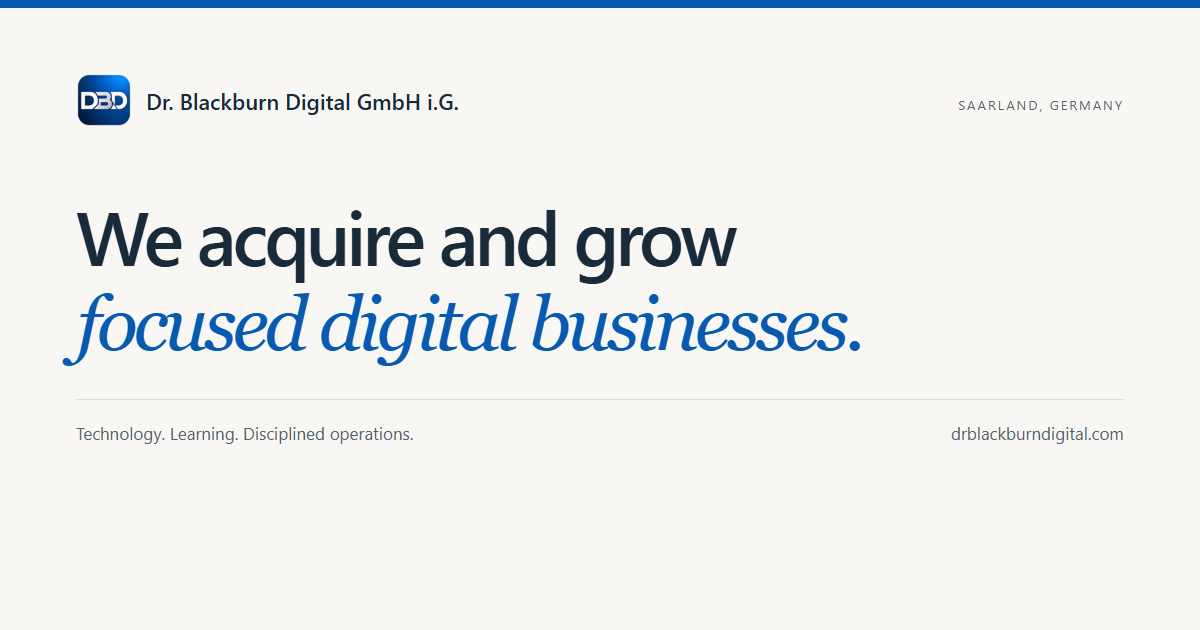
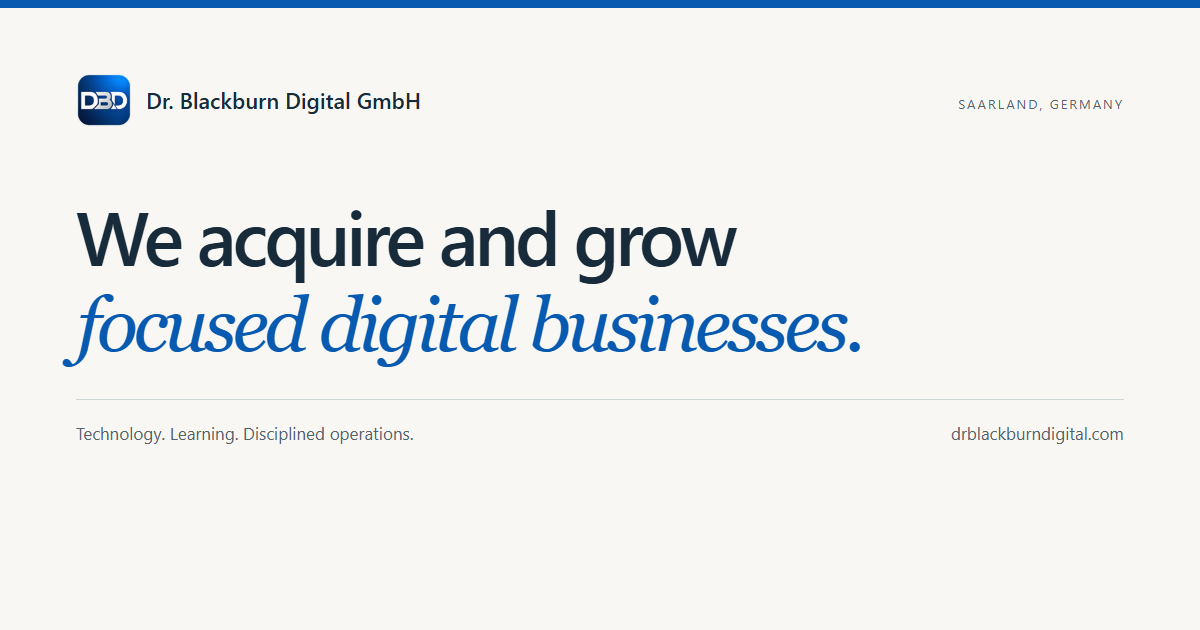
Update DBD registered company status and register details

diff --git a/index.html b/index.html
@@ -1,13 +1,13 @@
 <!doctype html>
-<html lang="en"><head><meta charset="utf-8"><meta name="viewport" content="width=device-width, initial-scale=1"><meta name="color-scheme" content="light"><title>Focused digital businesses | Dr. Blackburn Digital GmbH i.G.</title>
-<meta name="description" content="Dr. Blackburn Digital GmbH i.G. acquires and grows focused digital businesses, combining technology, AI, learning expertise and disciplined operations."><link rel="canonical" href="https://www.drblackburndigital.com/"><link rel="alternate" hreflang="en" href="https://www.drblackburndigital.com/"><link rel="alternate" hreflang="de" href="https://www.drblackburndigital.com/de/"><link rel="alternate" hreflang="x-default" href="https://www.drblackburndigital.com/">
+<html lang="en"><head><meta charset="utf-8"><meta name="viewport" content="width=device-width, initial-scale=1"><meta name="color-scheme" content="light"><title>Focused digital businesses | Dr. Blackburn Digital GmbH</title>
+<meta name="description" content="Dr. Blackburn Digital GmbH acquires and grows focused digital businesses, combining technology, AI, learning expertise and disciplined operations."><link rel="canonical" href="https://www.drblackburndigital.com/"><link rel="alternate" hreflang="en" href="https://www.drblackburndigital.com/"><link rel="alternate" hreflang="de" href="https://www.drblackburndigital.com/de/"><link rel="alternate" hreflang="x-default" href="https://www.drblackburndigital.com/">
 <meta name="robots" content="index, follow">
-<meta property="og:type" content="website"><meta property="og:title" content="Focused digital businesses | Dr. Blackburn Digital GmbH i.G."><meta property="og:description" content="Dr. Blackburn Digital GmbH i.G. acquires and grows focused digital businesses, combining technology, AI, learning expertise and disciplined operations."><meta property="og:url" content="https://www.drblackburndigital.com/"><meta property="og:site_name" content="Dr. Blackburn Digital GmbH i.G."><meta property="og:locale" content="en_GB"><meta property="og:image" content="https://www.drblackburndigital.com/assets/social-preview.png"><meta property="og:image:width" content="1200"><meta property="og:image:height" content="630"><meta property="og:image:alt" content="Dr. Blackburn Digital GmbH i.G. — focused digital businesses"><meta name="twitter:card" content="summary_large_image"><meta name="twitter:title" content="Focused digital businesses | Dr. Blackburn Digital GmbH i.G."><meta name="twitter:description" content="Dr. Blackburn Digital GmbH i.G. acquires and grows focused digital businesses, combining technology, AI, learning expertise and disciplined operations."><meta name="twitter:image" content="https://www.drblackburndigital.com/assets/social-preview.png">
+<meta property="og:type" content="website"><meta property="og:title" content="Focused digital businesses | Dr. Blackburn Digital GmbH"><meta property="og:description" content="Dr. Blackburn Digital GmbH acquires and grows focused digital businesses, combining technology, AI, learning expertise and disciplined operations."><meta property="og:url" content="https://www.drblackburndigital.com/"><meta property="og:site_name" content="Dr. Blackburn Digital GmbH"><meta property="og:locale" content="en_GB"><meta property="og:image" content="https://www.drblackburndigital.com/assets/social-preview.png"><meta property="og:image:width" content="1200"><meta property="og:image:height" content="630"><meta property="og:image:alt" content="Dr. Blackburn Digital GmbH — focused digital businesses"><meta name="twitter:card" content="summary_large_image"><meta name="twitter:title" content="Focused digital businesses | Dr. Blackburn Digital GmbH"><meta name="twitter:description" content="Dr. Blackburn Digital GmbH acquires and grows focused digital businesses, combining technology, AI, learning expertise and disciplined operations."><meta name="twitter:image" content="https://www.drblackburndigital.com/assets/social-preview.png">
 <link rel="icon" href="/favicon.ico" sizes="16x16 32x32 48x48"><link rel="icon" type="image/png" href="/assets/favicon-96.png" sizes="96x96"><link rel="apple-touch-icon" href="/apple-touch-icon.png" sizes="180x180"><meta name="theme-color" content="#172b3a">
-<link rel="stylesheet" href="/assets/site.css"><script type="application/ld+json">{"@context":"https://schema.org","@graph":[{"@type":"Organization","@id":"https://www.drblackburndigital.com/#organization","name":"Dr. Blackburn Digital GmbH i.G.","legalName":"Dr. Blackburn Digital GmbH i.G.","url":"https://www.drblackburndigital.com/","email":"info@drblackburndigital.com","alternateName":"DBD","founder":{"@id":"https://www.drblackburndigital.com/greg-blackburn/#person"},"description":"A German company in formation, founded to acquire, operate and grow focused digital businesses.","logo":{"@type":"ImageObject","@id":"https://www.drblackburndigital.com/#logo","url":"https://www.drblackburndigital.com/assets/logo.png","width":1056,"height":372},"address":{"@type":"PostalAddress","addressLocality":"Püttlingen","addressRegion":"Saarland","addressCountry":"DE"},"contactPoint":{"@type":"ContactPoint","contactType":"Business enquiries","email":"info@drblackburndigital.com","url":"https://www.drblackburndigital.com/contact/"}},{"@type":"Person","@id":"https://www.drblackburndigital.com/greg-blackburn/#person","name":"Dr. Greg Blackburn","alternateName":"Greg Blackburn","url":"https://www.drblackburndigital.com/greg-blackburn/","jobTitle":"Founder & CEO","worksFor":{"@id":"https://www.drblackburndigital.com/#organization"},"image":"https://www.drblackburndigital.com/assets/greg-blackburn.jpg"},{"@type":"WebSite","@id":"https://www.drblackburndigital.com/#website","url":"https://www.drblackburndigital.com/","name":"Dr. Blackburn Digital GmbH i.G.","publisher":{"@id":"https://www.drblackburndigital.com/#organization"},"inLanguage":["en","de"]},{"@type":"WebPage","@id":"https://www.drblackburndigital.com/#webpage","url":"https://www.drblackburndigital.com/","name":"Focused digital businesses | Dr. Blackburn Digital GmbH i.G.","description":"Dr. Blackburn Digital GmbH i.G. acquires and grows focused digital businesses, combining technology, AI, learning expertise and disciplined operations.","inLanguage":"en","isPartOf":{"@id":"https://www.drblackburndigital.com/#website"},"about":{"@id":"https://www.drblackburndigital.com/#organization"}}]}</script></head><body>
+<link rel="stylesheet" href="/assets/site.css"><script type="application/ld+json">{"@context":"https://schema.org","@graph":[{"@type":"Organization","@id":"https://www.drblackburndigital.com/#organization","name":"Dr. Blackburn Digital GmbH","legalName":"Dr. Blackburn Digital GmbH","url":"https://www.drblackburndigital.com/","email":"info@drblackburndigital.com","alternateName":"DBD","founder":{"@id":"https://www.drblackburndigital.com/greg-blackburn/#person"},"description":"A registered German company, founded to acquire, operate and grow focused digital businesses.","logo":{"@type":"ImageObject","@id":"https://www.drblackburndigital.com/#logo","url":"https://www.drblackburndigital.com/assets/logo.png","width":1056,"height":372},"address":{"@type":"PostalAddress","addressLocality":"Püttlingen","addressRegion":"Saarland","addressCountry":"DE"},"contactPoint":{"@type":"ContactPoint","contactType":"Business enquiries","email":"info@drblackburndigital.com","url":"https://www.drblackburndigital.com/contact/"}},{"@type":"Person","@id":"https://www.drblackburndigital.com/greg-blackburn/#person","name":"Dr. Greg Blackburn","alternateName":"Greg Blackburn","url":"https://www.drblackburndigital.com/greg-blackburn/","jobTitle":"Founder & CEO","worksFor":{"@id":"https://www.drblackburndigital.com/#organization"},"image":"https://www.drblackburndigital.com/assets/greg-blackburn.jpg"},{"@type":"WebSite","@id":"https://www.drblackburndigital.com/#website","url":"https://www.drblackburndigital.com/","name":"Dr. Blackburn Digital GmbH","publisher":{"@id":"https://www.drblackburndigital.com/#organization"},"inLanguage":["en","de"]},{"@type":"WebPage","@id":"https://www.drblackburndigital.com/#webpage","url":"https://www.drblackburndigital.com/","name":"Focused digital businesses | Dr. Blackburn Digital GmbH","description":"Dr. Blackburn Digital GmbH acquires and grows focused digital businesses, combining technology, AI, learning expertise and disciplined operations.","inLanguage":"en","isPartOf":{"@id":"https://www.drblackburndigital.com/#website"},"about":{"@id":"https://www.drblackburndigital.com/#organization"}}]}</script></head><body>
 <a class="skip-link" href="#main">Skip to content</a>
-<header class="site-header"><div class="wrap header-inner"><a class="brand" href="/" aria-label="Dr. Blackburn Digital home"><img src="/assets/favicon-96.png" width="48" height="48" alt=""><span>Dr. Blackburn Digital<small>GmbH i.G. · Germany</small></span></a><nav class="desktop-nav" aria-label="Main"><a href="/portfolio/">Portfolio</a><a href="/partnerships/">Partnerships</a><a href="/greg-blackburn/">Greg Blackburn</a><a href="/insights/">Insights</a><a href="/contact/" class="nav-contact">Contact</a></nav><nav class="language-switch" aria-label="Language"><a lang="en" hreflang="en" href="/" aria-current="true">EN</a><span aria-hidden="true">/</span><a lang="de" hreflang="de" href="/de/">DE</a></nav><details class="mobile-nav"><summary>Menu</summary><nav aria-label="Mobile"><a href="/portfolio/">Portfolio</a><a href="/partnerships/">Partnerships</a><a href="/greg-blackburn/">Greg Blackburn</a><a href="/insights/">Insights</a><a href="/contact/" class="nav-contact">Contact</a></nav></details></div></header>
-<main id="main" tabindex="-1"><section class="hero wrap"><div class="hero-main"><p class="eyebrow"><span class="status-dot"></span> Dr. Blackburn Digital GmbH i.G.</p><h1>We acquire and grow <em>focused digital businesses.</em></h1><p class="lead">Dr. Blackburn Digital GmbH i.G. (DBD) is a German company in formation, founded to acquire, operate and grow focused digital businesses. We bring technology, AI and learning expertise to long-term product improvement.</p><div class="actions"><a class="button" href="/contact/?type=acquisition">Discuss an acquisition <span aria-hidden="true">→</span></a><a class="text-link" href="/contact/?type=partnership">Discuss a partnership <span aria-hidden="true">→</span></a></div></div><aside class="hero-aside" aria-label="Our perspective"><div class="brand-panel"><img src="/assets/logo.png" width="1056" height="372" alt="" aria-hidden="true"><p>An operating company.<br>A long-term perspective.</p></div><div class="location-line"><span>Saarland, Germany</span><span>International outlook</span></div></aside></section>
+<header class="site-header"><div class="wrap header-inner"><a class="brand" href="/" aria-label="Dr. Blackburn Digital home"><img src="/assets/favicon-96.png" width="48" height="48" alt=""><span>Dr. Blackburn Digital<small>GmbH · Germany</small></span></a><nav class="desktop-nav" aria-label="Main"><a href="/portfolio/">Portfolio</a><a href="/partnerships/">Partnerships</a><a href="/greg-blackburn/">Greg Blackburn</a><a href="/insights/">Insights</a><a href="/contact/" class="nav-contact">Contact</a></nav><nav class="language-switch" aria-label="Language"><a lang="en" hreflang="en" href="/" aria-current="true">EN</a><span aria-hidden="true">/</span><a lang="de" hreflang="de" href="/de/">DE</a></nav><details class="mobile-nav"><summary>Menu</summary><nav aria-label="Mobile"><a href="/portfolio/">Portfolio</a><a href="/partnerships/">Partnerships</a><a href="/greg-blackburn/">Greg Blackburn</a><a href="/insights/">Insights</a><a href="/contact/" class="nav-contact">Contact</a></nav></details></div></header>
+<main id="main" tabindex="-1"><section class="hero wrap"><div class="hero-main"><p class="eyebrow"><span class="status-dot"></span> Dr. Blackburn Digital GmbH</p><h1>We acquire and grow <em>focused digital businesses.</em></h1><p class="lead">Dr. Blackburn Digital GmbH (DBD) is a registered German company, founded to acquire, operate and grow focused digital businesses. We bring technology, AI and learning expertise to long-term product improvement.</p><div class="actions"><a class="button" href="/contact/?type=acquisition">Discuss an acquisition <span aria-hidden="true">→</span></a><a class="text-link" href="/contact/?type=partnership">Discuss a partnership <span aria-hidden="true">→</span></a></div></div><aside class="hero-aside" aria-label="Our perspective"><div class="brand-panel"><img src="/assets/logo.png" width="1056" height="372" alt="" aria-hidden="true"><p>An operating company.<br>A long-term perspective.</p></div><div class="location-line"><span>Saarland, Germany</span><span>International outlook</span></div></aside></section>
     <div class="intro-strip"><div class="wrap"><span>Focused markets</span><span>Useful products</span><span>Evidence-led decisions</span><span>Disciplined operations</span></div></div>
     <section class="section wrap" id="portfolio"><div class="section-label"><span>01</span><p>Our portfolio</p></div><div class="portfolio-intro"><h2>Focused businesses.<br>Considered ownership.</h2><div><p>DBD is building a portfolio of focused digital businesses. We look for useful products with a clear audience and scope for sustained improvement.</p><p>Portfolio details will be shared as acquisitions are completed.</p><a class="text-link" href="/portfolio/">Our portfolio approach <span aria-hidden="true">→</span></a></div></div></section>
     <section class="section wrap acquisition-summary"><p class="eyebrow">For founders &amp; owners</p><div class="split-content"><h2>A useful product.<br>A clear audience.</h2><div><p>We welcome introductions to focused digital businesses where understanding customers and improving the product can create lasting value.</p><a class="text-link" href="/portfolio/#acquisition-fit">What makes a business worth discussing <span aria-hidden="true">→</span></a></div></div></section><section class="section soft-section"><div class="wrap"><div class="section-label"><span>02</span><p>How we operate</p></div><div class="section-heading"><h2>Better products are built<br>through everyday decisions.</h2><p>Our work starts with understanding a business and continues through the practical work of improving it.</p></div><div class="principles">
@@ -16,6 +16,6 @@
   <article><span class="index">03</span><h3>Operate for the long term.</h3><p>Bring discipline to the everyday work of running a digital business. Make useful, sustained product improvements.</p></article>
 </div></div></section>
     <section class="section wrap split-section"><div class="section-label"><span>03</span><p>Partnerships</p></div><div class="split-content"><h2>Good partnerships<br>start with shared purpose.</h2><div><p>We welcome conversations with organisations whose expertise, audiences or services connect with our portfolio businesses.</p><p>Our role is to provide a clear corporate counterpart and an informed route into the right product conversation.</p><a class="text-link" href="/partnerships/">Working with DBD <span aria-hidden="true">→</span></a></div></div></section>
-    <section class="section founder-section"><div class="wrap founder-grid"><div class="founder-summary"><p class="eyebrow">Meet the founder</p><h2>Dr. Greg Blackburn</h2><p class="role">Founder &amp; CEO<br>Dr. Blackburn Digital GmbH i.G.</p><p>More than 20 years across professional education, digital learning and technology. Now focused on acquiring, operating and improving specialist digital businesses.</p><a class="text-link" href="/greg-blackburn/">Greg’s background & approach <span aria-hidden="true">→</span></a></div><div class="founder-evidence"><img class="founder-photo" src="/assets/greg-blackburn.jpg" width="720" height="771" alt="Dr. Greg Blackburn" loading="lazy"><p class="large-stat">20+<span>years in learning &amp; technology</span></p><div class="credential-line"><span>PhD</span><p>Professional Education<br><small>City, University of London</small></p></div><div class="credential-line"><span>MBA</span><p>Business administration<br><small>University of Queensland</small></p></div><p class="small-note">Professional experience across Europe and Australia.</p></div></div></section>
+    <section class="section founder-section"><div class="wrap founder-grid"><div class="founder-summary"><p class="eyebrow">Meet the founder</p><h2>Dr. Greg Blackburn</h2><p class="role">Founder &amp; CEO<br>Dr. Blackburn Digital GmbH</p><p>More than 20 years across professional education, digital learning and technology. Now focused on acquiring, operating and improving specialist digital businesses.</p><a class="text-link" href="/greg-blackburn/">Greg’s background & approach <span aria-hidden="true">→</span></a></div><div class="founder-evidence"><img class="founder-photo" src="/assets/greg-blackburn.jpg" width="720" height="771" alt="Dr. Greg Blackburn" loading="lazy"><p class="large-stat">20+<span>years in learning &amp; technology</span></p><div class="credential-line"><span>PhD</span><p>Professional Education<br><small>City, University of London</small></p></div><div class="credential-line"><span>MBA</span><p>Business administration<br><small>University of Queensland</small></p></div><p class="small-note">Professional experience across Europe and Australia.</p></div></div></section>
     <section class="section wrap"><p class="eyebrow">Ideas behind the work</p><h2>Learning, technology<br>and useful decisions.</h2><div class="editorial-grid"><article><p class="eyebrow">Learning &amp; product decisions</p><h3><a class="text-link" href="/insights/reviewing-a-learning-product/">How to review a learning product <span aria-hidden="true">→</span></a></h3><p>Follow one task through practice, feedback and another attempt. Decide what evidence would justify an improvement.</p></article><article><p class="eyebrow">AI &amp; operations</p><h3><a class="text-link" href="/insights/knowledge-before-ai/">Review the knowledge before adding AI <span aria-hidden="true">→</span></a></h3><p>Define the job, check the sources and test the situations in which an answer needs human review.</p></article></div><a class="text-link" href="/insights/">Explore our perspectives <span aria-hidden="true">→</span></a></section><section class="contact-band"><div class="wrap contact-inner"><div><p class="eyebrow">Contact DBD</p><h2>Let’s start a conversation.</h2><p>Partnerships, acquisition opportunities and professional enquiries.</p></div><a class="button button-light" href="/contact/">Contact DBD <span aria-hidden="true">→</span></a></div></section></main>
-<footer class="site-footer wrap"><div class="footer-top"><div><p class="footer-brand">Dr. Blackburn Digital GmbH i.G.</p><p class="footer-tagline">Acquiring, operating and growing<br>focused digital businesses.</p><a class="text-link" href="mailto:info@drblackburndigital.com">info@drblackburndigital.com</a></div><nav class="footer-links" aria-label="Footer"><a href="/company/">Company</a><a href="/portfolio/">Portfolio</a><a href="/partnerships/">Partnerships</a><a href="/greg-blackburn/">Greg Blackburn</a><a href="/insights/">Insights</a><a href="/contact/">Contact</a><a href="/impressum/">Impressum</a><a href="/privacy/">Privacy</a></nav></div><div class="footer-bottom"><span>© 2026 Dr. Blackburn Digital GmbH i.G.</span><span>Püttlingen, Saarland · Germany</span></div></footer></body></html>
+<footer class="site-footer wrap"><div class="footer-top"><div><p class="footer-brand">Dr. Blackburn Digital GmbH</p><p class="footer-tagline">Acquiring, operating and growing<br>focused digital businesses.</p><a class="text-link" href="mailto:info@drblackburndigital.com">info@drblackburndigital.com</a></div><nav class="footer-links" aria-label="Footer"><a href="/company/">Company</a><a href="/portfolio/">Portfolio</a><a href="/partnerships/">Partnerships</a><a href="/greg-blackburn/">Greg Blackburn</a><a href="/insights/">Insights</a><a href="/contact/">Contact</a><a href="/impressum/">Impressum</a><a href="/privacy/">Privacy</a></nav></div><div class="footer-bottom"><span>© 2026 Dr. Blackburn Digital GmbH</span><span>Püttlingen, Saarland · Germany</span></div></footer></body></html>

diff --git a/src/social-card.html b/src/social-card.html
@@ -1,3 +1,3 @@
 <!doctype html><html lang="en"><head><meta charset="utf-8"><meta name="robots" content="noindex"><title>DBD social preview artwork</title><style>
 *{box-sizing:border-box}body{margin:0;width:1200px;height:630px;overflow:hidden;background:#f8f7f3;color:#172b3a;font-family:'Segoe UI',Arial,sans-serif}.card{padding:64px 76px;position:relative;height:630px;border-top:8px solid #075aaf}.brand{display:flex;align-items:center;gap:14px;font-size:22px;font-weight:600}.brand img{width:56px;height:56px}h1{font-size:76px;font-weight:500;line-height:1.12;letter-spacing:-4px;margin:64px 0 32px;max-width:980px}em{font-family:Georgia,serif;color:#075aaf;font-weight:400}.foot{border-top:1px solid #cdd7d6;padding-top:22px;display:flex;justify-content:space-between;font-size:17px;color:#53636c}.label{position:absolute;right:76px;top:87px;font-size:13px;text-transform:uppercase;letter-spacing:2px;color:#53636c}
-</style></head><body><div class="card"><div class="brand"><img src="/assets/favicon-96.png" alt="">Dr. Blackburn Digital GmbH i.G.</div><span class="label">Saarland, Germany</span><h1>We acquire and grow<br><em>focused digital businesses.</em></h1><div class="foot"><span>Technology. Learning. Disciplined operations.</span><span>drblackburndigital.com</span></div></div></body></html>
+</style></head><body><div class="card"><div class="brand"><img src="/assets/favicon-96.png" alt="">Dr. Blackburn Digital GmbH</div><span class="label">Saarland, Germany</span><h1>We acquire and grow<br><em>focused digital businesses.</em></h1><div class="foot"><span>Technology. Learning. Disciplined operations.</span><span>drblackburndigital.com</span></div></div></body></html>

diff --git a/README.md b/README.md
@@ -1,6 +1,6 @@
 # Dr. Blackburn Digital website
 
-Production source for https://www.drblackburndigital.com/ — Dr. Blackburn Digital GmbH i.G.
+Production source for https://www.drblackburndigital.com/ — Dr. Blackburn Digital GmbH
 
 ## Development
 
@@ -29,7 +29,7 @@ The root `index.html` is generated by the production build. Edit the sources and
 
 GitHub `main` is the production source branch. A push can trigger Vercel production deployment; review and test changes before pushing. Credentials and deployment settings remain in Vercel and are not changed by the build.
 
-Private review material and internal operator records are excluded from this public repository. The company remains in formation; update legal status and registry details only after confirmation.
+Private review material and internal operator records are excluded from this public repository. The company is registered at Amtsgericht Saarbrücken under HRB 112680, as confirmed by Greg. Add the USt-IdNr to both Impressum versions once the official letter arrives and the number is confirmed.
 
 ## Contact delivery
 
